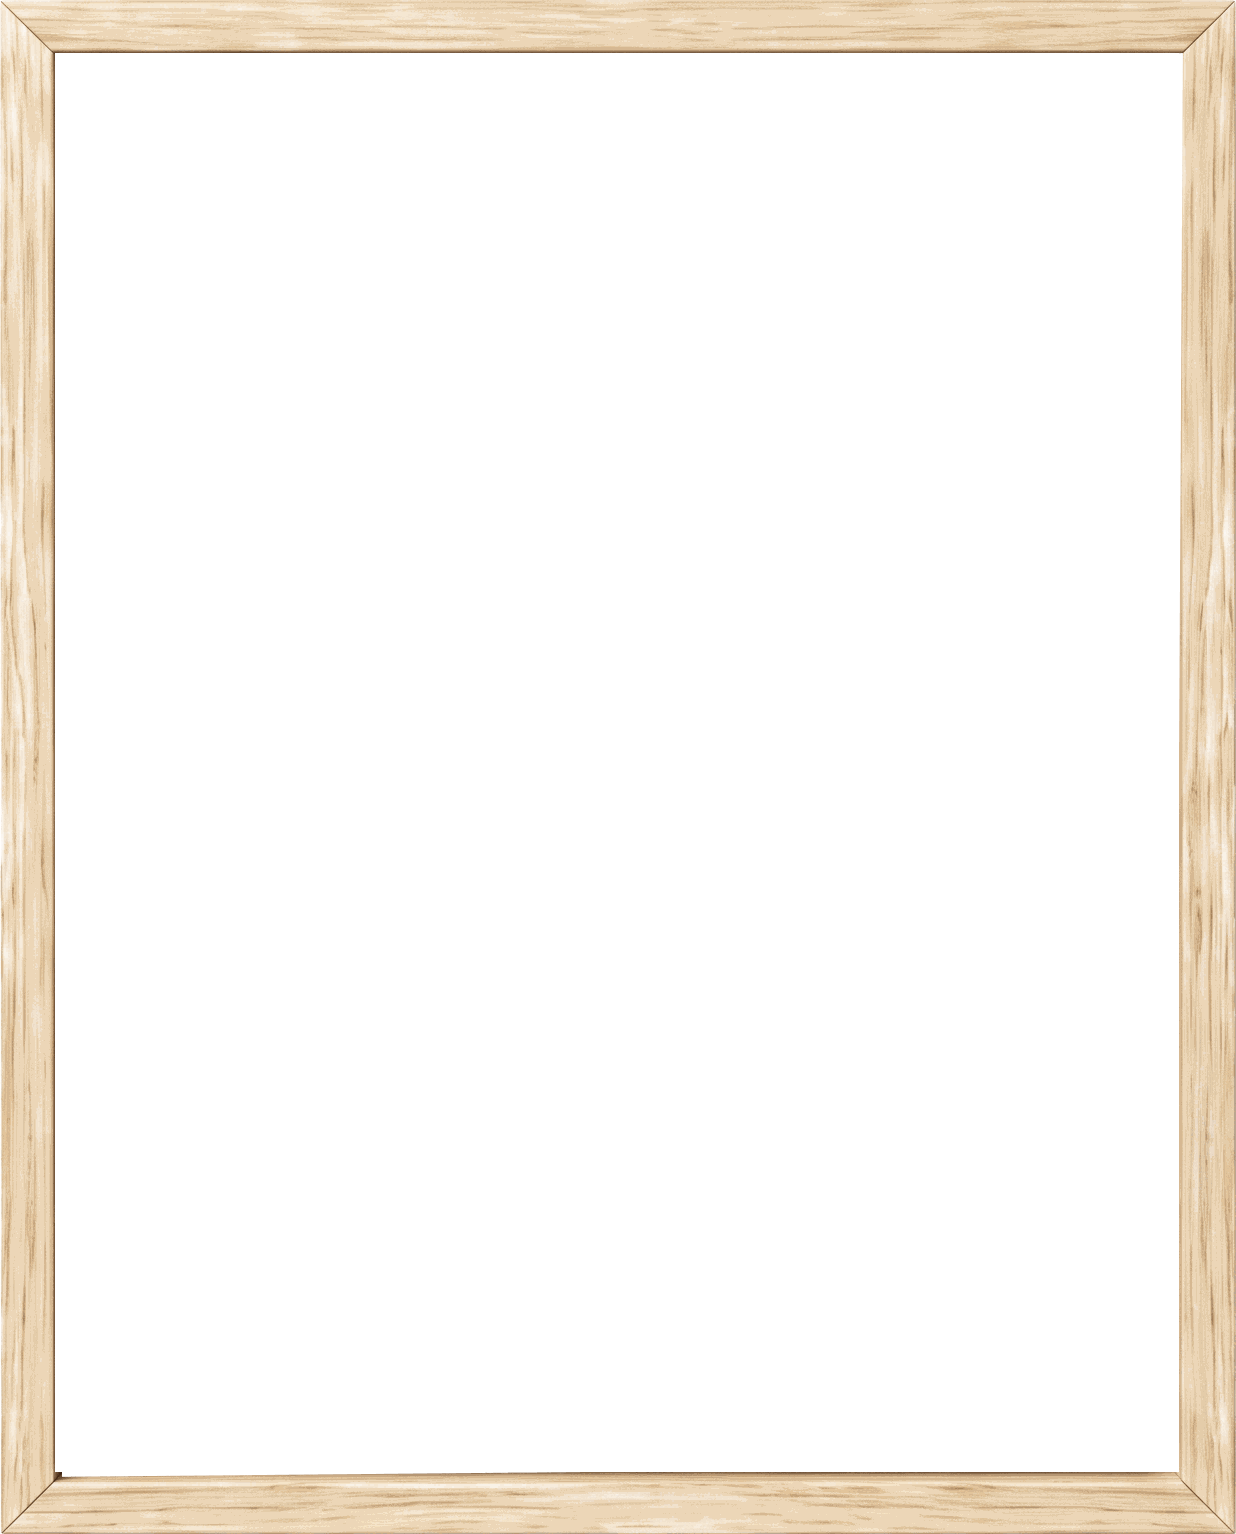
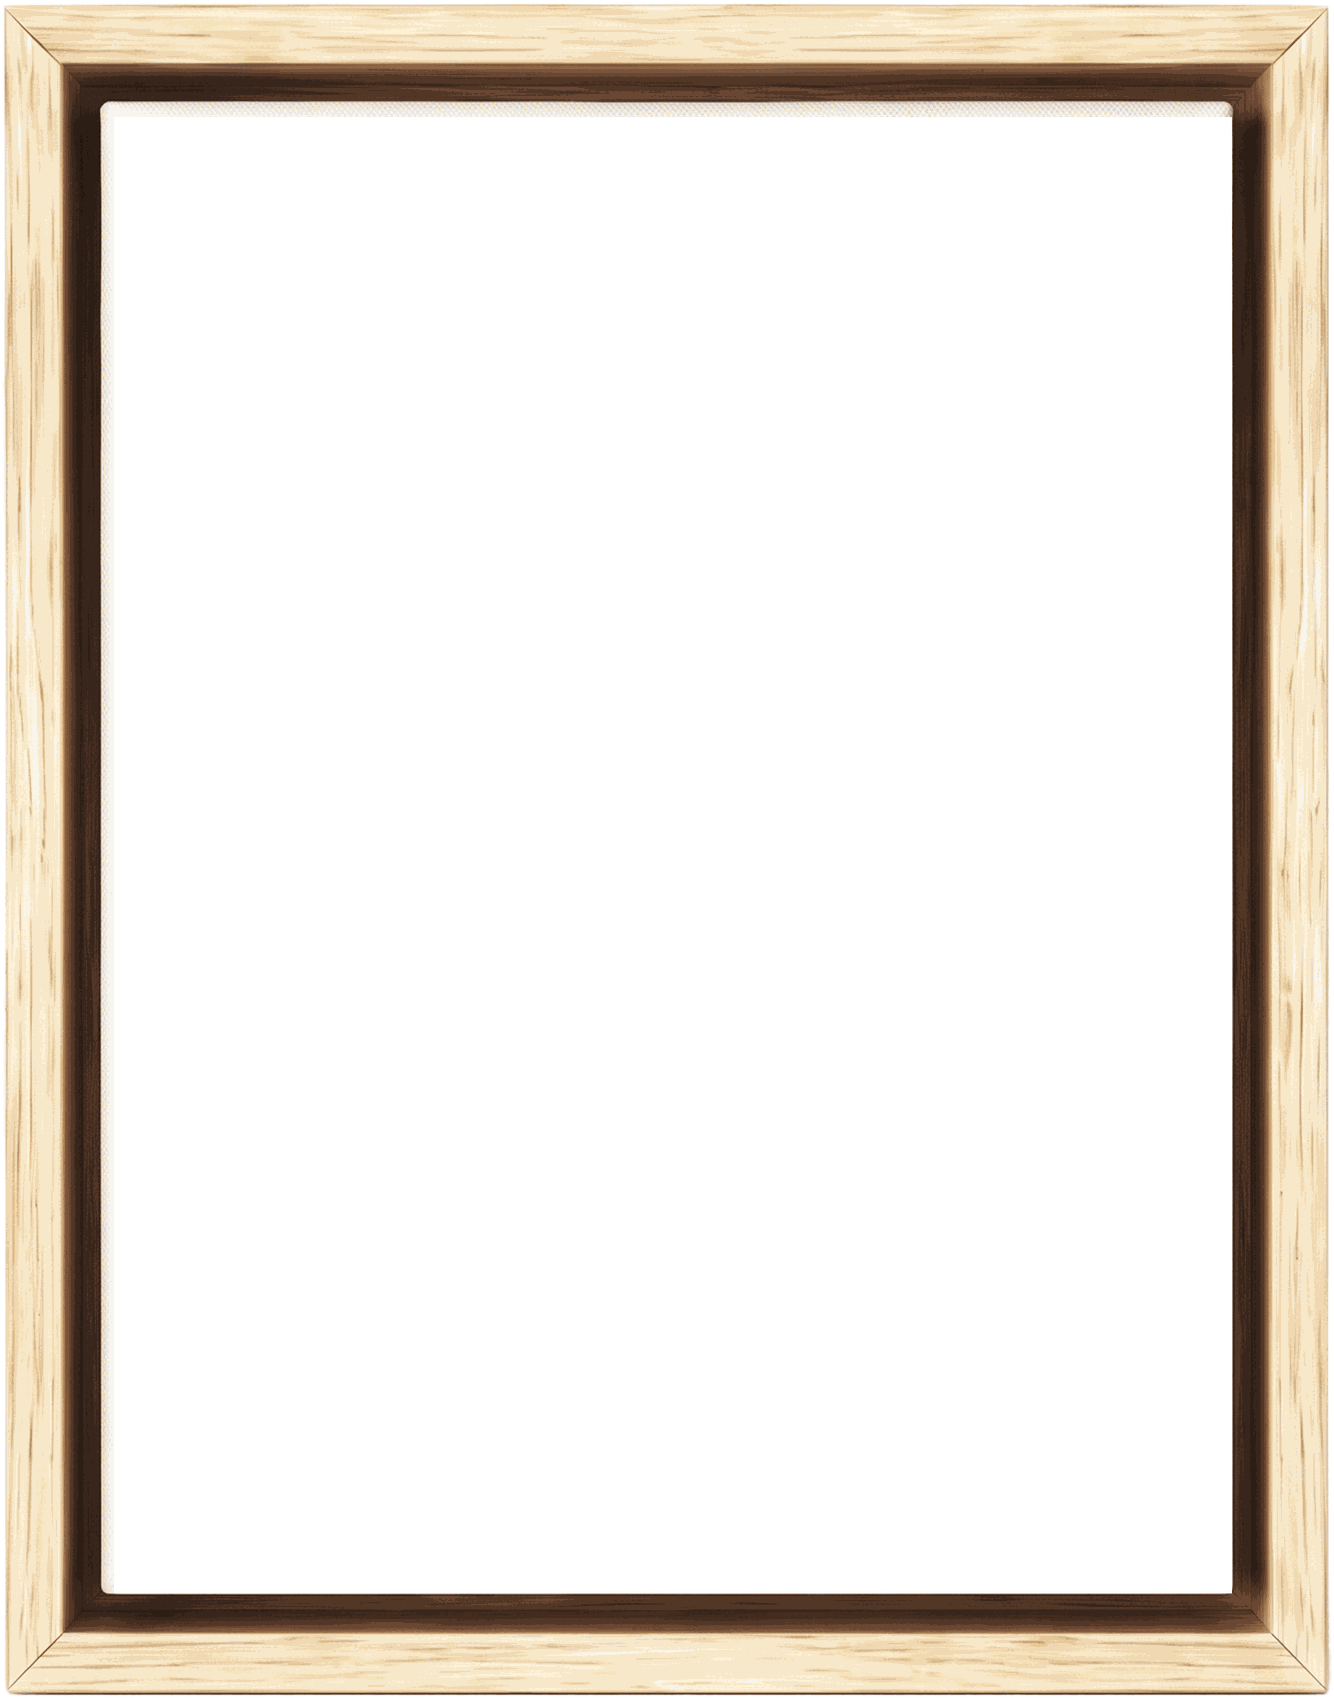
Take the floater frame's shadow gap with the moulding
This is a floater frame — moulding, a dark recess, then the canvas sitting
inside it. The first cut stopped at the inner edge of the timber, so the
recess was lost and the canvas met the wood flush, which this frame never
does.

Recut from the new photograph with the slice reaching past the wood to
where the canvas face actually begins: 228px left, 234 top, 204 right, 209
bottom. Nearly twice the old figures, and the gap now reads as a shadow at
every size, framed on the wall or standing on the easel.

The three other sides are expressed as ratios of the left one, so the
photograph's own asymmetry — a deeper shadow on the lit side — survives
instead of being averaged away.

Claude-Session: https://claude.ai/code/session_01X6Pv3nrHhTjqWKLhQX1xC6

Changed region(s): [[0.0, 0.0, 1.0, 1.0]]

diff --git a/assets/css/styles.css b/assets/css/styles.css
@@ -300,20 +300,25 @@ p{margin:0}
    of shape whatever the canvas ratio. The slice numbers are the moulding
    thickness in the source file, measured off the photo. */
 .frame.is-framed{
-  --fw: 4.45cqw;                 /* the moulding, as it sits in the photo */
+  /* A floater frame: the moulding, then a dark recess, then the canvas. The
+     slice deliberately reaches past the wood and takes the shadow gap with
+     it, otherwise the canvas would sit flush against the timber, which this
+     frame never does. Measured off the photograph:
+     228px left, 234 top, 204 right, 209 bottom, halved with the file. */
+  --fw: 8.55cqw;
   padding: 0;
   background: none;
   border-style: solid;
   border-left-width:   var(--fw);
-  border-top-width:    calc(var(--fw) * 53 / 55);
-  border-right-width:  calc(var(--fw) * 57 / 55);
-  border-bottom-width: calc(var(--fw) * 62 / 55);
+  border-top-width:    calc(var(--fw) * 1.0263);
+  border-right-width:  calc(var(--fw) * 0.8947);
+  border-bottom-width: calc(var(--fw) * 0.9167);
   border-image-source: image-set(
       url('../img/frame-oak.webp') type('image/webp'),
       url('../img/frame-oak.png')  type('image/png'));
-  border-image-slice: 53 57 62 55;
+  border-image-slice: 117 102 104 114;
   border-image-repeat: stretch;
-  filter: drop-shadow(0 16px 26px rgba(29,30,26,.17));
+  filter: drop-shadow(0 16px 26px rgba(29,30,26,.15));
 }
 
 

diff --git a/index.html b/index.html
@@ -18,7 +18,7 @@
 <link rel="preconnect" href="https://fonts.googleapis.com">
 <link rel="preconnect" href="https://fonts.gstatic.com" crossorigin>
 <link href="https://fonts.googleapis.com/css2?family=Fraunces:opsz,wght@9..144,400;9..144,500;9..144,600&family=Inter:wght@400;500;600&family=Allura&family=Dancing+Script:wght@500&family=Great+Vibes&family=Italianno&family=Marck+Script&family=Mrs+Saint+Delafield&family=Parisienne&family=Pinyon+Script&display=swap" rel="stylesheet">
-<link rel="stylesheet" href="assets/css/styles.css?v=12">
+<link rel="stylesheet" href="assets/css/styles.css?v=13">
 </head>
 <body>
 
@@ -444,9 +444,9 @@
   </div>
 </div>
 
-<script src="assets/js/canopy-mask.js?v=12"></script>
-<script src="assets/js/config.js?v=12"></script>
-<script src="assets/js/configurator.js?v=12"></script>
-<script src="assets/js/main.js?v=12"></script>
+<script src="assets/js/canopy-mask.js?v=13"></script>
+<script src="assets/js/config.js?v=13"></script>
+<script src="assets/js/configurator.js?v=13"></script>
+<script src="assets/js/main.js?v=13"></script>
 </body>
 </html>

diff --git a/legal/privacy.html b/legal/privacy.html
@@ -10,7 +10,7 @@
 <link rel="preconnect" href="https://fonts.googleapis.com">
 <link rel="preconnect" href="https://fonts.gstatic.com" crossorigin>
 <link href="https://fonts.googleapis.com/css2?family=Fraunces:opsz,wght@9..144,400;9..144,500;9..144,600&family=Inter:wght@400;500;600&display=swap" rel="stylesheet">
-<link rel="stylesheet" href="../assets/css/styles.css?v=12">
+<link rel="stylesheet" href="../assets/css/styles.css?v=13">
 </head>
 <body class="legal-page">
 
@@ -202,7 +202,7 @@
   </div>
 </footer>
 
-<script src="../assets/js/config.js?v=12"></script>
-<script src="../assets/js/legal.js?v=12"></script>
+<script src="../assets/js/config.js?v=13"></script>
+<script src="../assets/js/legal.js?v=13"></script>
 </body>
 </html>

diff --git a/legal/terms.html b/legal/terms.html
@@ -10,7 +10,7 @@
 <link rel="preconnect" href="https://fonts.googleapis.com">
 <link rel="preconnect" href="https://fonts.gstatic.com" crossorigin>
 <link href="https://fonts.googleapis.com/css2?family=Fraunces:opsz,wght@9..144,400;9..144,500;9..144,600&family=Inter:wght@400;500;600&display=swap" rel="stylesheet">
-<link rel="stylesheet" href="../assets/css/styles.css?v=12">
+<link rel="stylesheet" href="../assets/css/styles.css?v=13">
 </head>
 <body class="legal-page">
 
@@ -192,7 +192,7 @@
   </div>
 </footer>
 
-<script src="../assets/js/config.js?v=12"></script>
-<script src="../assets/js/legal.js?v=12"></script>
+<script src="../assets/js/config.js?v=13"></script>
+<script src="../assets/js/legal.js?v=13"></script>
 </body>
 </html>

diff --git a/legal/legal-notice.html b/legal/legal-notice.html
@@ -10,7 +10,7 @@
 <link rel="preconnect" href="https://fonts.googleapis.com">
 <link rel="preconnect" href="https://fonts.gstatic.com" crossorigin>
 <link href="https://fonts.googleapis.com/css2?family=Fraunces:opsz,wght@9..144,400;9..144,500;9..144,600&family=Inter:wght@400;500;600&display=swap" rel="stylesheet">
-<link rel="stylesheet" href="../assets/css/styles.css?v=12">
+<link rel="stylesheet" href="../assets/css/styles.css?v=13">
 </head>
 <body class="legal-page">
 
@@ -98,7 +98,7 @@
   </div>
 </footer>
 
-<script src="../assets/js/config.js?v=12"></script>
-<script src="../assets/js/legal.js?v=12"></script>
+<script src="../assets/js/config.js?v=13"></script>
+<script src="../assets/js/legal.js?v=13"></script>
 </body>
 </html>

diff --git a/README.md b/README.md
@@ -135,15 +135,23 @@ how far they spread past a branch. In `configurator.js`, `PRINT_CM` is how wide
 a thumbprint lands in centimetres — which is why a bigger canvas shows smaller,
 more numerous prints — and `SPACING` is how close their centres may sit.
 
-**The frame.** The framed option is a photograph of the real oak moulding,
-`assets/img/frame-oak.*`, applied as a CSS `border-image`. Slicing it that way
-keeps the corners square and stops the wood stretching out of shape when the
-canvas changes ratio. To swap in a different moulding: photograph it straight
-on against a plain wall, crop to the outer edge of the wood, clear the middle
-to transparent, and update `border-image-slice` in `styles.css` with the
-moulding thickness in pixels (top right bottom left). `--fw` is that thickness
-as a share of the frame's width — 4.45% in the current photo — and it is the
-same on all three sizes.
+**The frame.** The framed option is a photograph of the real moulding,
+`assets/img/frame-oak.*`, applied as a CSS `border-image`. Slicing it keeps
+the corners square and stops the wood stretching out of shape when the canvas
+changes ratio.
+
+It is a *floater* frame: moulding, then a dark recess, then the canvas. The
+slice deliberately reaches past the wood and takes that shadow gap with it —
+cut at the timber instead and the canvas sits flush against it, which this
+frame never does. Measured off the photo: 228px left, 234 top, 204 right,
+209 bottom, all halved with the file, which is why `border-image-slice` reads
+`117 102 104 114`. `--fw` is the left figure as a share of the frame's width,
+8.55%, and the other three sides are ratios of it so the photo's own
+proportions survive. Same on all three sizes.
+
+To swap in a different moulding: photograph it straight on against a plain
+white wall with a blank canvas in it, find the outer edge of the wood and the
+point where the canvas face starts, and use the distance between them.
 
 **The easel.** Also a photograph, cut out of its background with a soft alpha
 so the thin legs keep clean edges — `assets/img/easel.*`. It sets the size of
